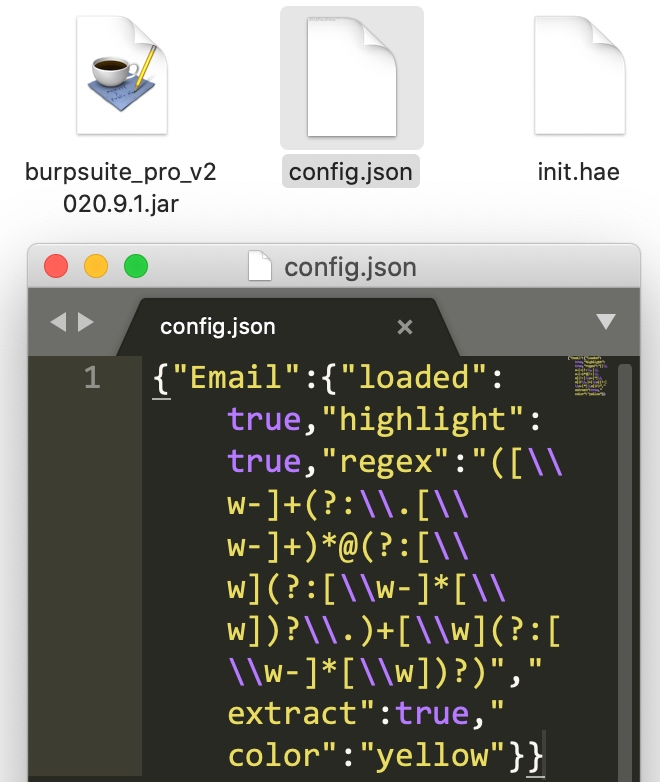
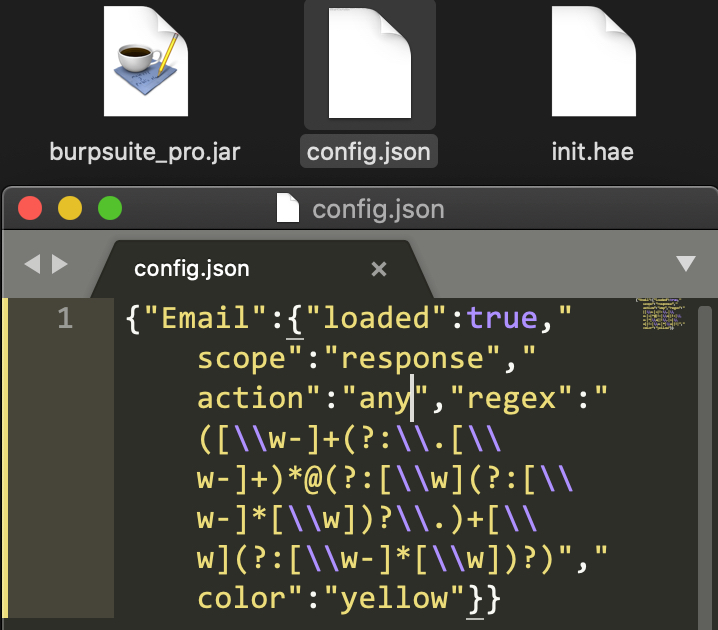
Update: Support request messages

diff --git a/burp/BurpExtender.java b/burp/BurpExtender.java
@@ -49,7 +49,7 @@ public class BurpExtender implements IBurpExtender, IHttpListener, IMessageEdito
 	private IBurpExtenderCallbacks callbacks;
 	private static String configFilePath = "config.json";
 	private static String initFilePath = "init.hae";
-	private static String initConfigContent = "{\"Email\":{\"loaded\":true,\"highlight\":true,\"regex\":\"([\\\\w-]+(?:\\\\.[\\\\w-]+)*@(?:[\\\\w](?:[\\\\w-]*[\\\\w])?\\\\.)+[\\\\w](?:[\\\\w-]*[\\\\w])?)\",\"extract\":true,\"color\":\"yellow\"}}";
+	private static String initConfigContent = "{\"Email\":{\"loaded\":true,\"scope\":\"response\",\"regex\":\"([\\\\w-]+(?:\\\\.[\\\\w-]+)*@(?:[\\\\w](?:[\\\\w-]*[\\\\w])?\\\\.)+[\\\\w](?:[\\\\w-]*[\\\\w])?)\",\"action\":\"any\",\"color\":\"yellow\"}}";
 	private static String endColor = "";
 	private static String[] colorArray = new String[] {"red", "orange", "yellow", "green", "cyan", "blue", "pink", "magenta", "gray"};
 	private static String[] scopeArray = new String[] {"response", "request"};

diff --git a/README_zh.md b/README_zh.md
@@ -37,7 +37,7 @@ HaE支持三个动作:
 3. 颜色升级算法: 利用下标的方式进行优先级排序，当满足2个同颜色条件则以优先级顺序上升颜色。（例如: **两个正则，颜色为橘黄色，该请求两个正则都匹配到了，那么将升级为红色**）
 4. 简单的配置文件格式选用JSON格式，格式为
     ```
-    {name: {"loaded": isLoaded,"regex": regexText, "highlight": isHighlight, "extract": isExtract, "color": colorText}}
+    {name: {"loaded": isLoaded,"regex": regexText, "scope": request/response, "action": extract/highlight/any, "color": colorText}}
     ```
 5. 内置简单缓存，在“多正则、大数据”的场景下减少卡顿现象。
 

diff --git a/README.md b/README.md
@@ -41,7 +41,7 @@ HaE supports three actions:
 3. Color upgrade algorithm: **Two regulars expression, the colors are both orange, if the request are matched these, it will be upgraded to red.**
 4. The configuration file format uses JSON format, the format is
     ```
-    {name: {"loaded": isLoaded,"regex": regexText, "highlight": isHighlight, "extract": isExtract, "color": colorText}}
+    {name: {"loaded": isLoaded,"regex": regexText, "scope": request/response, "action": extract/highlight/any, "color": colorText}}
     ```
 5. Built-in simple cache to reduce the stuttering phenomenon in the `multi-regular, big data scenario`.
 
